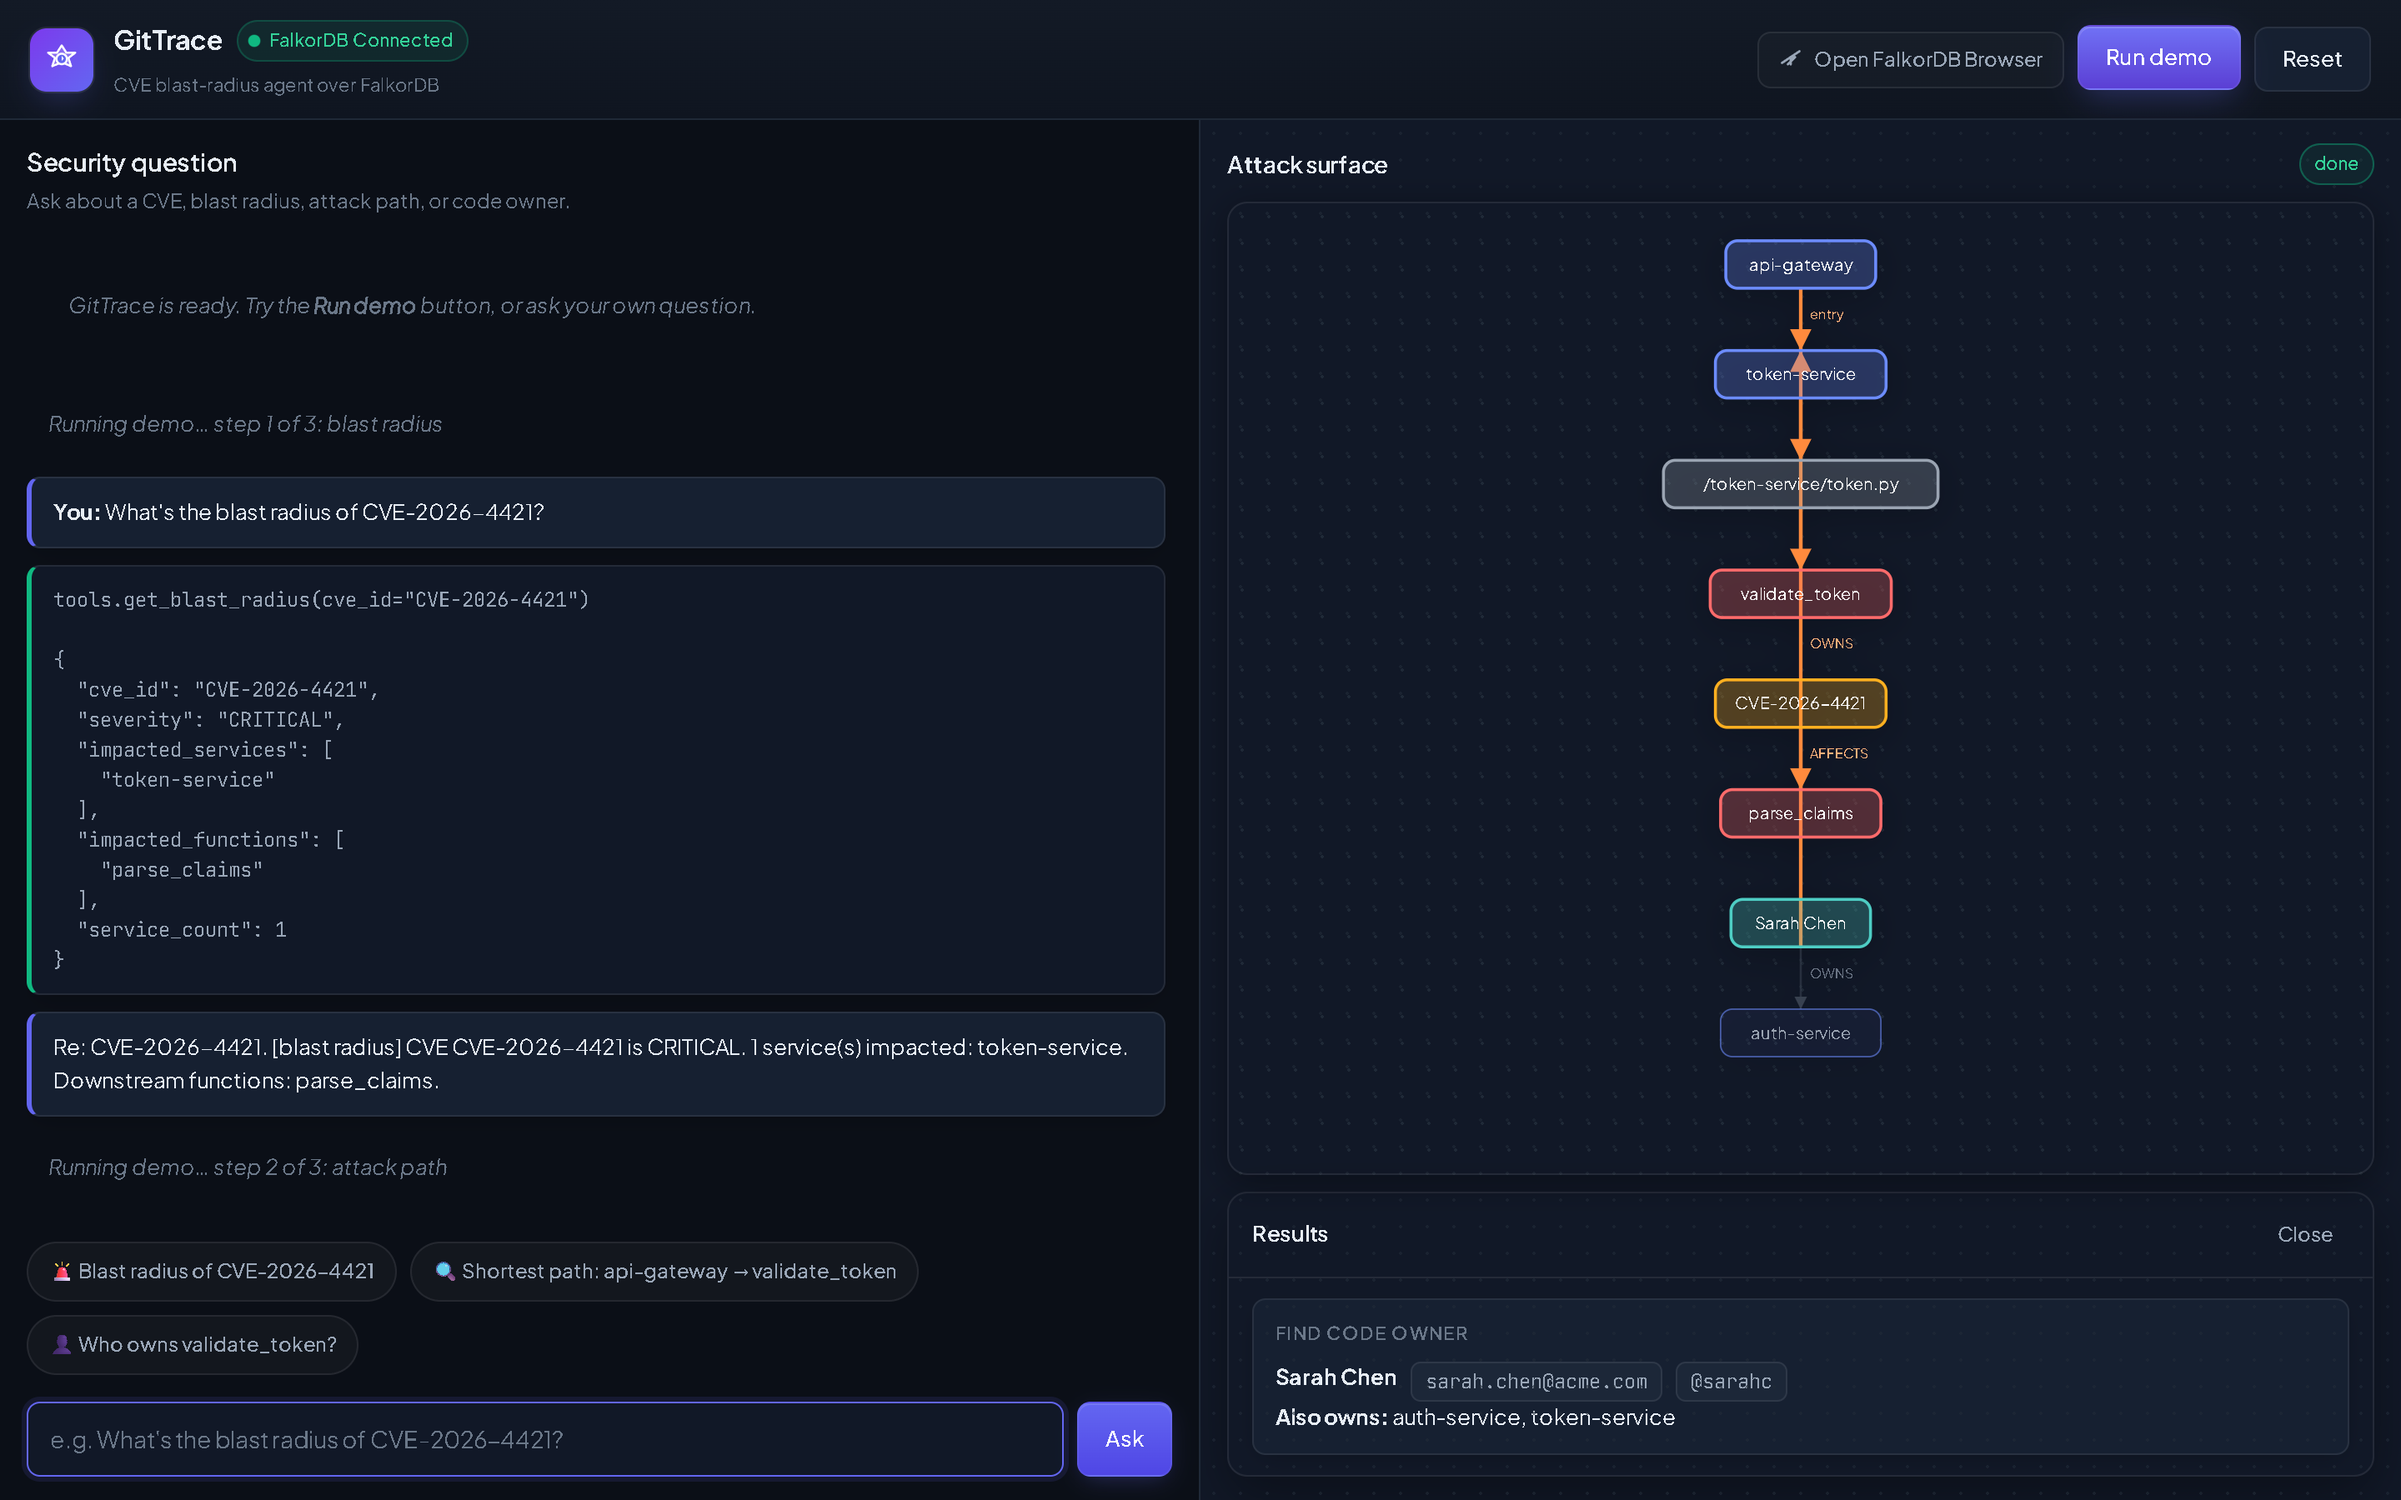
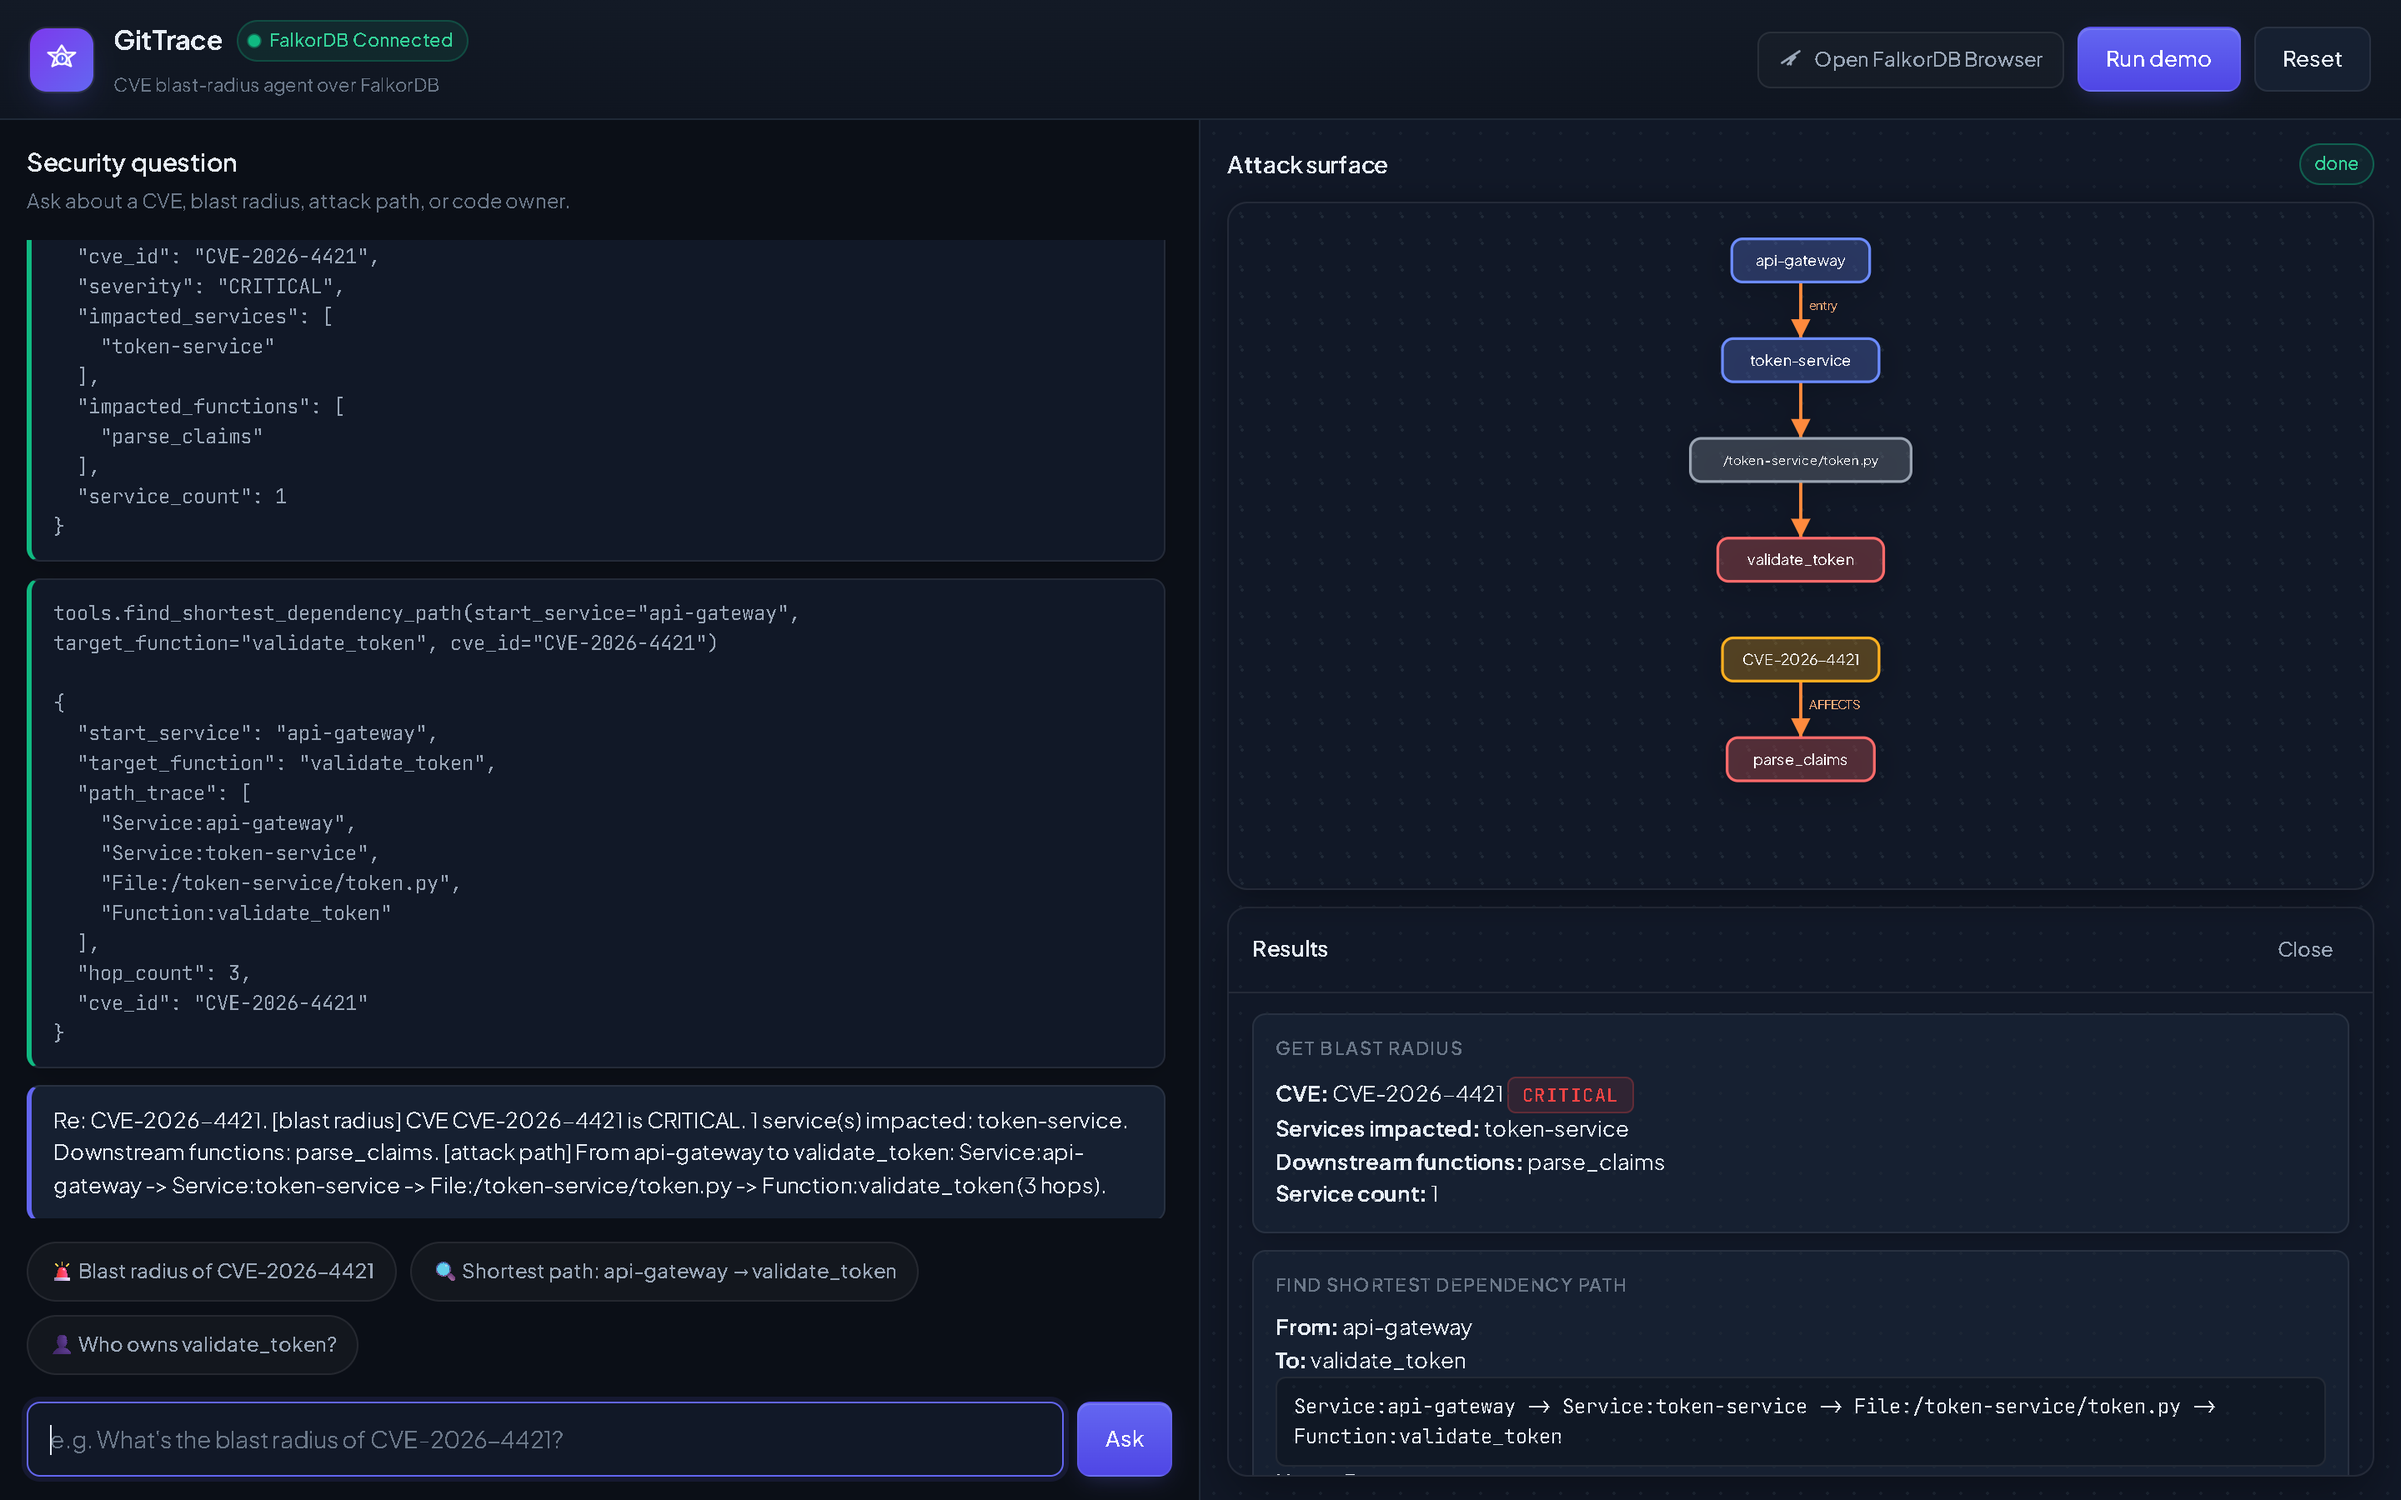
Report the real outcome for single questions and fit long node labels
A one-off question used to finish with the pill reading "idle", the same as
never running, because setBusy(false) overwrote the terminal state. Both entry
points now share one request path that reports done or error, and file-path
nodes size their box from the rendered font so labels stop spilling out.

🤖 Generated with Codebuff

diff --git a/frontend/app.js b/frontend/app.js
@@ -256,9 +256,12 @@ function renderGraphViz(toolResults) {
   for (const [id, n] of nodes) {
     const p = pos.get(id);
     const color = NODE_COLORS[n.type] || "#888";
-    const w = Math.min(200, 24 + n.label.length * 7);
+    // Long labels (file paths) get a smaller font and a box measured from it,
+    // so text never overflows the rounded rect.
+    const fontSize = n.label.length > 22 ? 9.5 : 11;
+    const w = Math.min(260, 26 + n.label.length * fontSize * 0.63);
     svg += `<rect x="${p.x - w / 2}" y="${p.y - 16}" width="${w}" height="32" rx="8" fill="${color}" fill-opacity="${n.active ? 0.28 : 0.10}" stroke="${color}" stroke-width="${n.active ? 2 : 1}" opacity="${n.active ? 1 : 0.6}"/>`;
-    svg += `<text x="${p.x}" y="${p.y + 4}" fill="${n.active ? "#fff" : "#9aa4b2"}" font-size="11" text-anchor="middle">${n.label}</text>`;
+    svg += `<text x="${p.x}" y="${p.y + 4}" fill="${n.active ? "#fff" : "#9aa4b2"}" font-size="${fontSize}" text-anchor="middle">${n.label}</text>`;
   }
   svg += `<defs>`;
   svg += `<marker id="arrowA" markerWidth="8" markerHeight="8" refX="6" refY="3" orient="auto"><path d="M0,0 L6,3 L0,6 Z" fill="#ff8a3d"/></marker>`;
@@ -328,59 +331,24 @@ async function postQuestion(question) {
   setBusy(true);
   addMessage("…", "system");
   const lastMsg = messagesEl.lastElementChild;
+  let ok = false;
   try {
-    const controller = new AbortController();
-    const timer = setTimeout(() => controller.abort(), 20_000);
-    let res;
-    try {
-      res = await fetch(API_BASE + "/query", {
-        method: "POST",
-        headers: { "Content-Type": "application/json" },
-        body: JSON.stringify({ question }),
-        signal: controller.signal,
-      });
-    } catch (fetchErr) {
-      if (lastMsg) lastMsg.remove();
-      const msg = fetchErr.name === "AbortError"
-        ? "Request timed out (backend took too long)"
-        : "Network error: " + fetchErr.message;
-      addMessage(msg, "agent");
-      console.warn("GITTRACE fetch failed:", fetchErr);
-      return;
-    }
-    if (!res.ok) {
-      if (lastMsg) lastMsg.remove();
-      const text = await res.text().catch(() => "");
-      throw new Error(`/query returned ${res.status}: ${text}`);
-    }
-    const data = await res.json();
-    if (lastMsg) lastMsg.remove();
-
-    if (data.tool_calls && data.tool_calls.length) {
-      for (const call of data.tool_calls) {
-        const tr = (data.tool_results || []).find((r) => r.name === call.name);
-        addToolMessage(call.name, call.arguments, tr ? tr.result : {});
-      }
-    }
-    addMessage(data.answer || "(no answer)", "agent");
-    if (data.tool_results && data.tool_results.length) {
-      state.lastResults = data.tool_results;
-      renderResultsFromToolResults(data.tool_results);
-      renderGraphViz(data.tool_results);
-    }
+    ok = await postQuestionInner(question);
   } catch (err) {
-    if (lastMsg) lastMsg.remove();
     addMessage("Error: " + err.message, "agent");
     console.error(err);
   } finally {
+    if (lastMsg) lastMsg.remove();
     setBusy(false);
     chatInput.focus();
   }
+  // setBusy(false) resets the pill, so the terminal state is applied after it.
+  statusPill.textContent = ok ? "done" : "error";
+  statusPill.className = ok ? "pill active" : "pill error";
 }
 
 function runQueryFromInput() {
   const q = chatInput.value.trim();
-  console.log("QUERY: q="+JSON.stringify(q)+", busy="+state.busy);
   if (!q || state.busy) return;
   addMessage("<strong>You:</strong> " + q, "agent");
   chatInput.value = "";
@@ -452,7 +420,11 @@ async function runDemo() {
     for (const step of steps) {
       addMessage(`<em>Running demo… ${step.label}</em>`, "system");
       addMessage("<strong>You:</strong> " + step.q, "agent");
-      await postQuestionInner(step.q);
+      const ok = await postQuestionInner(step.q);
+      if (!ok) {
+        failed = true;
+        break;
+      }
     }
   } catch (err) {
     failed = true;
@@ -468,7 +440,8 @@ async function runDemo() {
 }
 
 
-// Inner query used by demo that keeps the busy state managed by runDemo.
+// The single /query implementation, shared by the chat form and the demo.
+// Returns true when the backend answered, false when the request failed.
 async function postQuestionInner(question) {
   const controller = new AbortController();
   const timer = setTimeout(() => controller.abort(), 20_000);
@@ -486,13 +459,14 @@ async function postQuestionInner(question) {
       : "Network error: " + fetchErr.message;
     addMessage(msg, "agent");
     console.warn("GITTRACE fetch failed:", fetchErr);
-    return;
+    return false;
   } finally {
     clearTimeout(timer);
   }
   if (!res.ok) {
     const text = await res.text().catch(() => "");
-    throw new Error(`/query returned ${res.status}: ${text}`);
+    addMessage(`Error: /query returned ${res.status}: ${text}`, "agent");
+    return false;
   }
   const data = await res.json();
   if (data.tool_calls && data.tool_calls.length) {
@@ -507,6 +481,7 @@ async function postQuestionInner(question) {
     renderResultsFromToolResults(data.tool_results);
     renderGraphViz(state.lastResults);
   }
+  return true;
 }
 
 runDemoBtn.addEventListener("click", runDemo);
